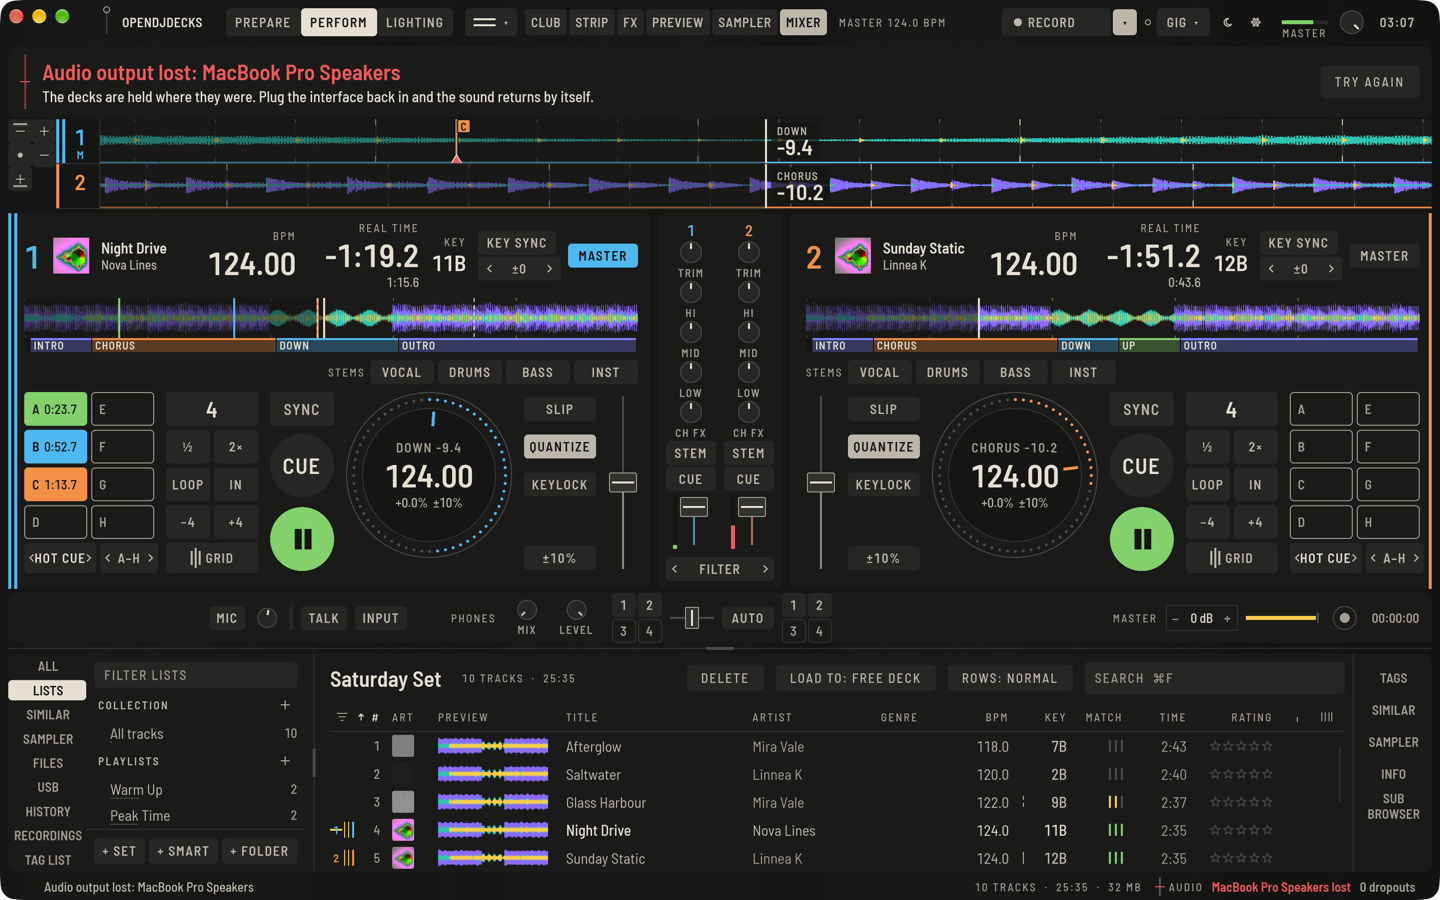
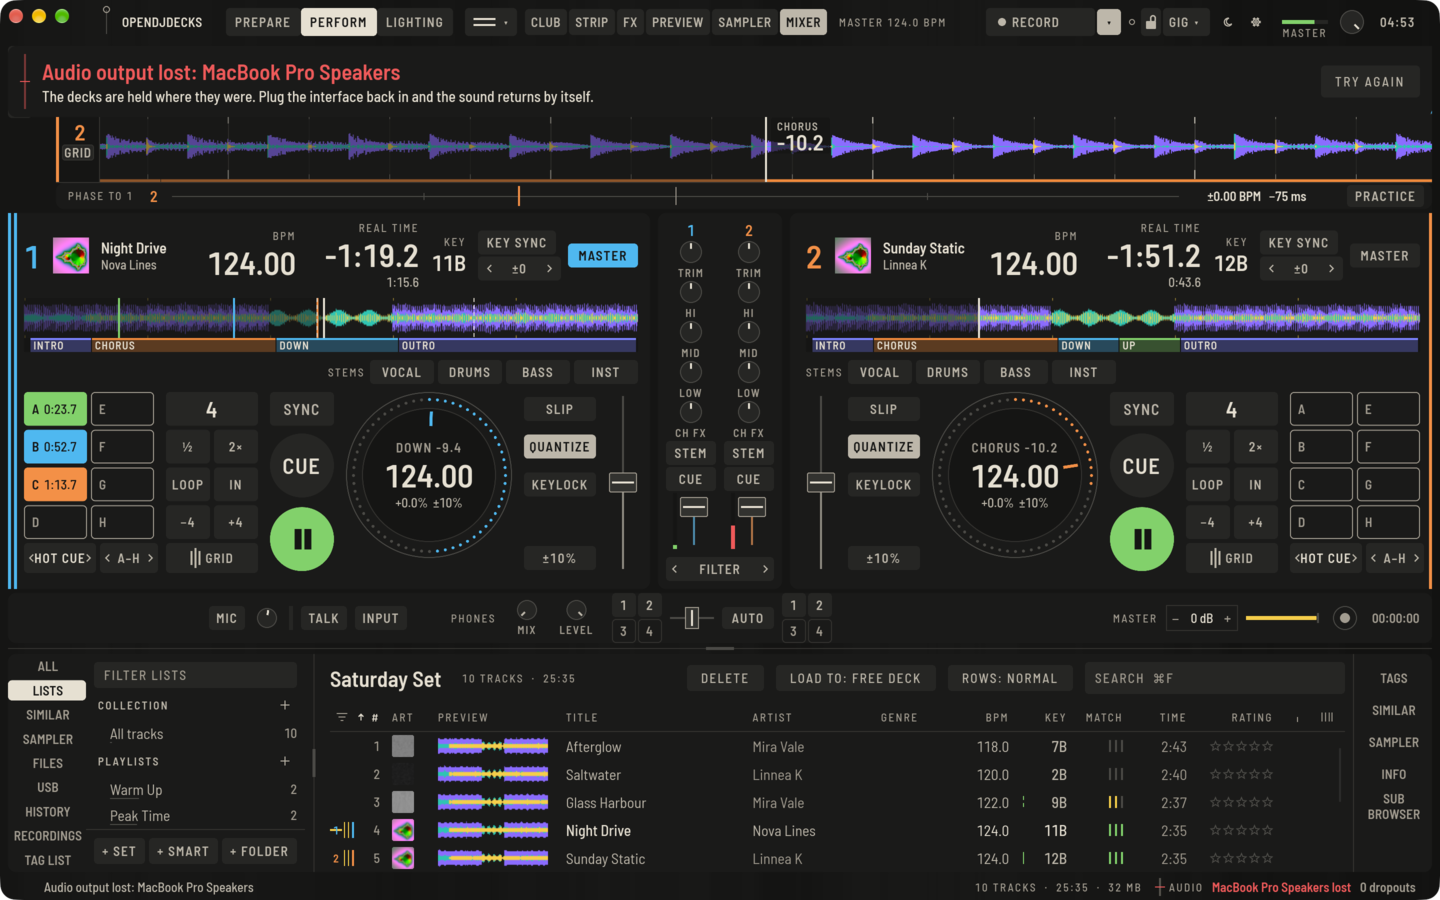
Device-lost band over the waveforms, so the decks stay put
Found in the review captures: at 1280 x 800 the device-lost band pushed
Perform into its compact deck layout the moment the interface went, so
every control moved mid-set. The band is now drawn over the waveform
zone (no sound plays then, so nothing under it is needed) and takes the
pointer there; the decks, mixer and browser keep their places. The guide
image is updated.

diff --git a/DESIGN.md b/DESIGN.md
@@ -336,7 +336,7 @@ A band under the top bar on an empty library: four steps with hollow rings, a so
 
 ### Set Safety
 Nothing here is a dialog: nothing may interrupt a set.
-- **Bands under the top bar** (ground-band, panel radius, the first-start band's place): device lost (struck deep-red line, Heading in fault, SWITCH OUTPUT as the green lead), restore after a crash (doubled sodium line, it needs you; RESTORE DECKS green, START EMPTY plain), gig check (one result per check: solid green ready, dashed sodium look at it, struck fix it). Order from the top: device lost, restore, gig check, first start.
+- **Bands under the top bar** (ground-band, panel radius, the first-start band's place): device lost (struck deep-red line, Heading in fault, SWITCH OUTPUT as the green lead), restore after a crash (doubled sodium line, it needs you; RESTORE DECKS green, START EMPTY plain), gig check (one result per check: solid green ready, dashed sodium look at it, struck fix it). The device-lost band is drawn over the waveform zone instead of pushing the layout down, so the decks do not move mid-set (no sound plays, so nothing under it is needed); the others take their place in the layout in the order restore, gig check, first start.
 - **Audio line** at the right end of the status band: a 2px line in the status grammar (solid green running, dashed sodium for 20 s after a dropout, struck when lost, half strong-rule before audio starts), AUDIO in Label caps, then device, latency and dropouts in Control rank.
 - **Lock key** in the status zone of the top bar: LOCK at rest, LOCKED filled sodium (the legend sodium already has for a locked grid). Under 1500 px it is a padlock that fills the same way. Controls the lock blocks take the disabled state.
 - **Phase strip** under the waveform lanes (26px): per deck a strong-rule ruler of half a beat each way, a bone-3 hairline centre, the deck's 2px line where its beat falls (unsmoothed), tempo difference and ms in Control rank. In sync the centre becomes a 2px green line and the readout says IN SYNC in green. PRACTICE is a toggle in sodium.
